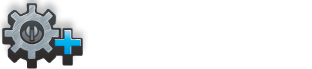
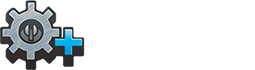
projects images changed

Changed region(s): [[0.0, 0.0, 0.3569, 1.0]]

diff --git a/source/stylesheets/layouts/default.css.sass b/source/stylesheets/layouts/default.css.sass
@@ -91,6 +91,8 @@ header.page
   margin-bottom: 30px
   background-color: #191919
   border-bottom: 4px solid #C9C9C9
+  @media #{$mediaSmall}
+    padding-bottom: 10px
   h1.logo
     margin: 0px
     a
@@ -99,11 +101,11 @@ header.page
       height: 40px
       text-indent: -9999px
       background: url("/images/logo.png") no-repeat
-      @media only screen and (-webkit-min-device-pixel-ratio : 1.1), only screen and (min-device-pixel-ratio : 1.1)
+      @media #{$mediaGreaterPixelRatio}
         background: url("/images/logo@2x.png") no-repeat
         background-size: 35px 40px
   .menu-button
-    margin-top: 12px
+    margin: 12px 4px 0px 0px
     span
       display: block
       width: 18px
@@ -312,7 +314,19 @@ body.services_consulting-coaching, body.resume
     padding-top: 90px
   &.as3coreaddendum
     background: url("/images/projects/as3coreaddendum.png") no-repeat
-    background-size: 312px 69px
+    background-size: 255px 70px
+    @media #{$mediaGreaterPixelRatio}
+      background: url("/images/projects/as3coreaddendum@2x.png") no-repeat
+  &.as3utils
+    background: url("/images/projects/as3utils.png") no-repeat
+    background-size: 167px 70px
+    @media #{$mediaGreaterPixelRatio}
+      background: url("/images/projects/as3utils@2x.png") no-repeat
+  &.as3collections
+    background: url("/images/projects/as3collections.png") no-repeat
+    background-size: 251px 70px
+    @media #{$mediaGreaterPixelRatio}
+      background: url("/images/projects/as3collections@2x.png") no-repeat
 
 
 body.resume

diff --git a/source/stylesheets/_settings.scss b/source/stylesheets/_settings.scss
@@ -136,9 +136,13 @@ $screenXlarge: 1441px !default;
 
 // Saving for Sass 3.2 stable release
 $mediaSmall: "only screen and (max-width: 767px)" !default;
+$mediaSmallPortrait: "only screen and (max-width: 320px)" !default;
 // $mediaMedium: "only screen and (max-width: 1279px) and (min-width: 768px)" !default;
 // $mediaXlarge: "only screen and (min-width: 1441px)" !default;
 // $mediaLandscape: "screen and (orientation: landscape)" !default;
 // $mediaPortrait: "screen and (orientation: portrait)" !default;
 // $mediaAll: "only screen and (max-device-width: 800px), only screen and (device-width: 1024px) and (device-height: 600px), only screen and (width: 1280px) and (orientation: landscape), only screen and (device-width: 800px), only screen and (max-width: 767px)" !default;
+
+
+$mediaGreaterPixelRatio: "only screen and (-webkit-min-device-pixel-ratio : 1.1), only screen and (-moz-min-device-pixel-ratio : 1.1), only screen and (-o-min-device-pixel-ratio : 1.1), only screen and (-ms-min-device-pixel-ratio : 1.1), only screen and (min-device-pixel-ratio : 1.1)" !default;
 
